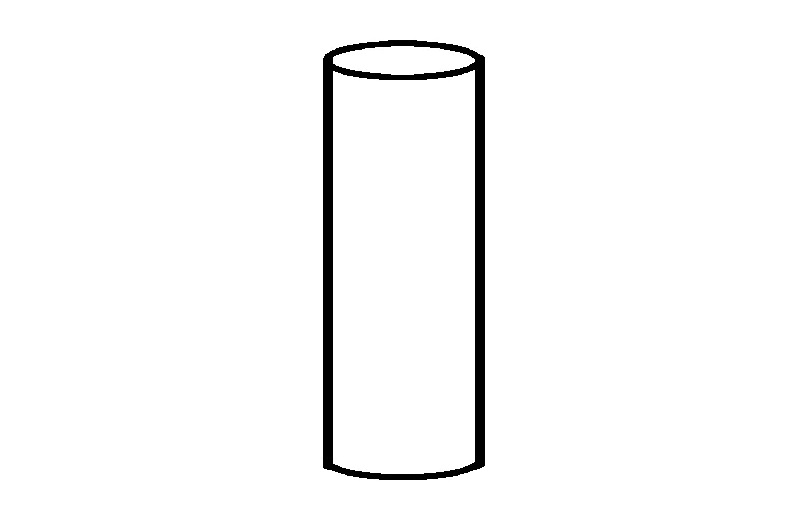
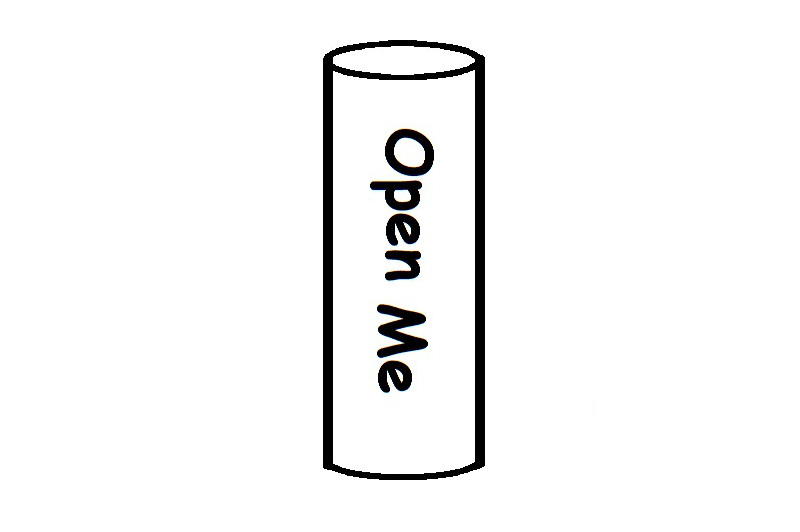
Implement Xmas 2015 pages

Changed region(s): [[0.4375, 0.2406, 0.5625, 0.5414], [0.4688, 0.5714, 0.5312, 0.7519]]

diff --git a/Xmas2015/three.html b/Xmas2015/three.html
@@ -1,0 +1,15 @@
+<!DOCTYPE html>
+<meta charset="UTF-8"> 
+<html>
+	<head>
+		<title>Merry Christmas, Koala Bear!</title>
+		<link href="css/main.css" rel="stylesheet" type="text/css" />
+		<script src="script/main.js" type="text/javascript" defer></script>
+	</head>
+	<body>
+		<div id="images" class="overlap">
+			<img src="images/three_b.jpg" />
+			<img id="wrapping" src="images/three_a.jpg" />
+		</div>
+	</body>
+</html>

diff --git a/Xmas2015/one.html b/Xmas2015/one.html
@@ -1,0 +1,15 @@
+<!DOCTYPE html>
+<meta charset="UTF-8"> 
+<html>
+	<head>
+		<title>Merry Christmas, Koala Bear!</title>
+		<link href="css/main.css" rel="stylesheet" type="text/css" />
+		<script src="script/main.js" type="text/javascript" defer></script>
+	</head>
+	<body>
+		<div id="images" class="overlap">
+			<img src="images/iron_b.jpg" />
+			<img id="wrapping" src="images/iron_a.jpg" />
+		</div>
+	</body>
+</html>

diff --git a/Xmas2015/two.html b/Xmas2015/two.html
@@ -1,0 +1,15 @@
+<!DOCTYPE html>
+<meta charset="UTF-8"> 
+<html>
+	<head>
+		<title>Merry Christmas, Koala Bear!</title>
+		<link href="css/main.css" rel="stylesheet" type="text/css" />
+		<script src="script/main.js" type="text/javascript" defer></script>
+	</head>
+	<body>
+		<div id="images" class="overlap">
+			<img src="images/echo_b.jpg" />
+			<img id="wrapping" src="images/echo_a.jpg" />
+		</div>
+	</body>
+</html>

diff --git a/Xmas2015/css/main.css b/Xmas2015/css/main.css
@@ -1,0 +1,19 @@
+div.overlap > img {
+	position: absolute;
+	left: 0;
+
+	transition: opacity 2s ease-in-out;
+	-webkit-transition: opacity 2s ease-in-out;
+	-o-transition: opacity 2s ease-in-out;
+	-moz-transition: opacity 2s ease-in-out;
+}
+
+.transparent {
+	opacity: 0
+}
+
+.center {
+	text-align: center;
+	margin-left: auto;
+	margin-top: auto;
+}

diff --git a/Xmas2015/script/main.js b/Xmas2015/script/main.js
@@ -1,0 +1,7 @@
+function openPresent () {
+	document.getElementById('wrapping').className = 'transparent';
+}
+
+(function () {
+	document.getElementById('images').onclick = openPresent;
+})();
